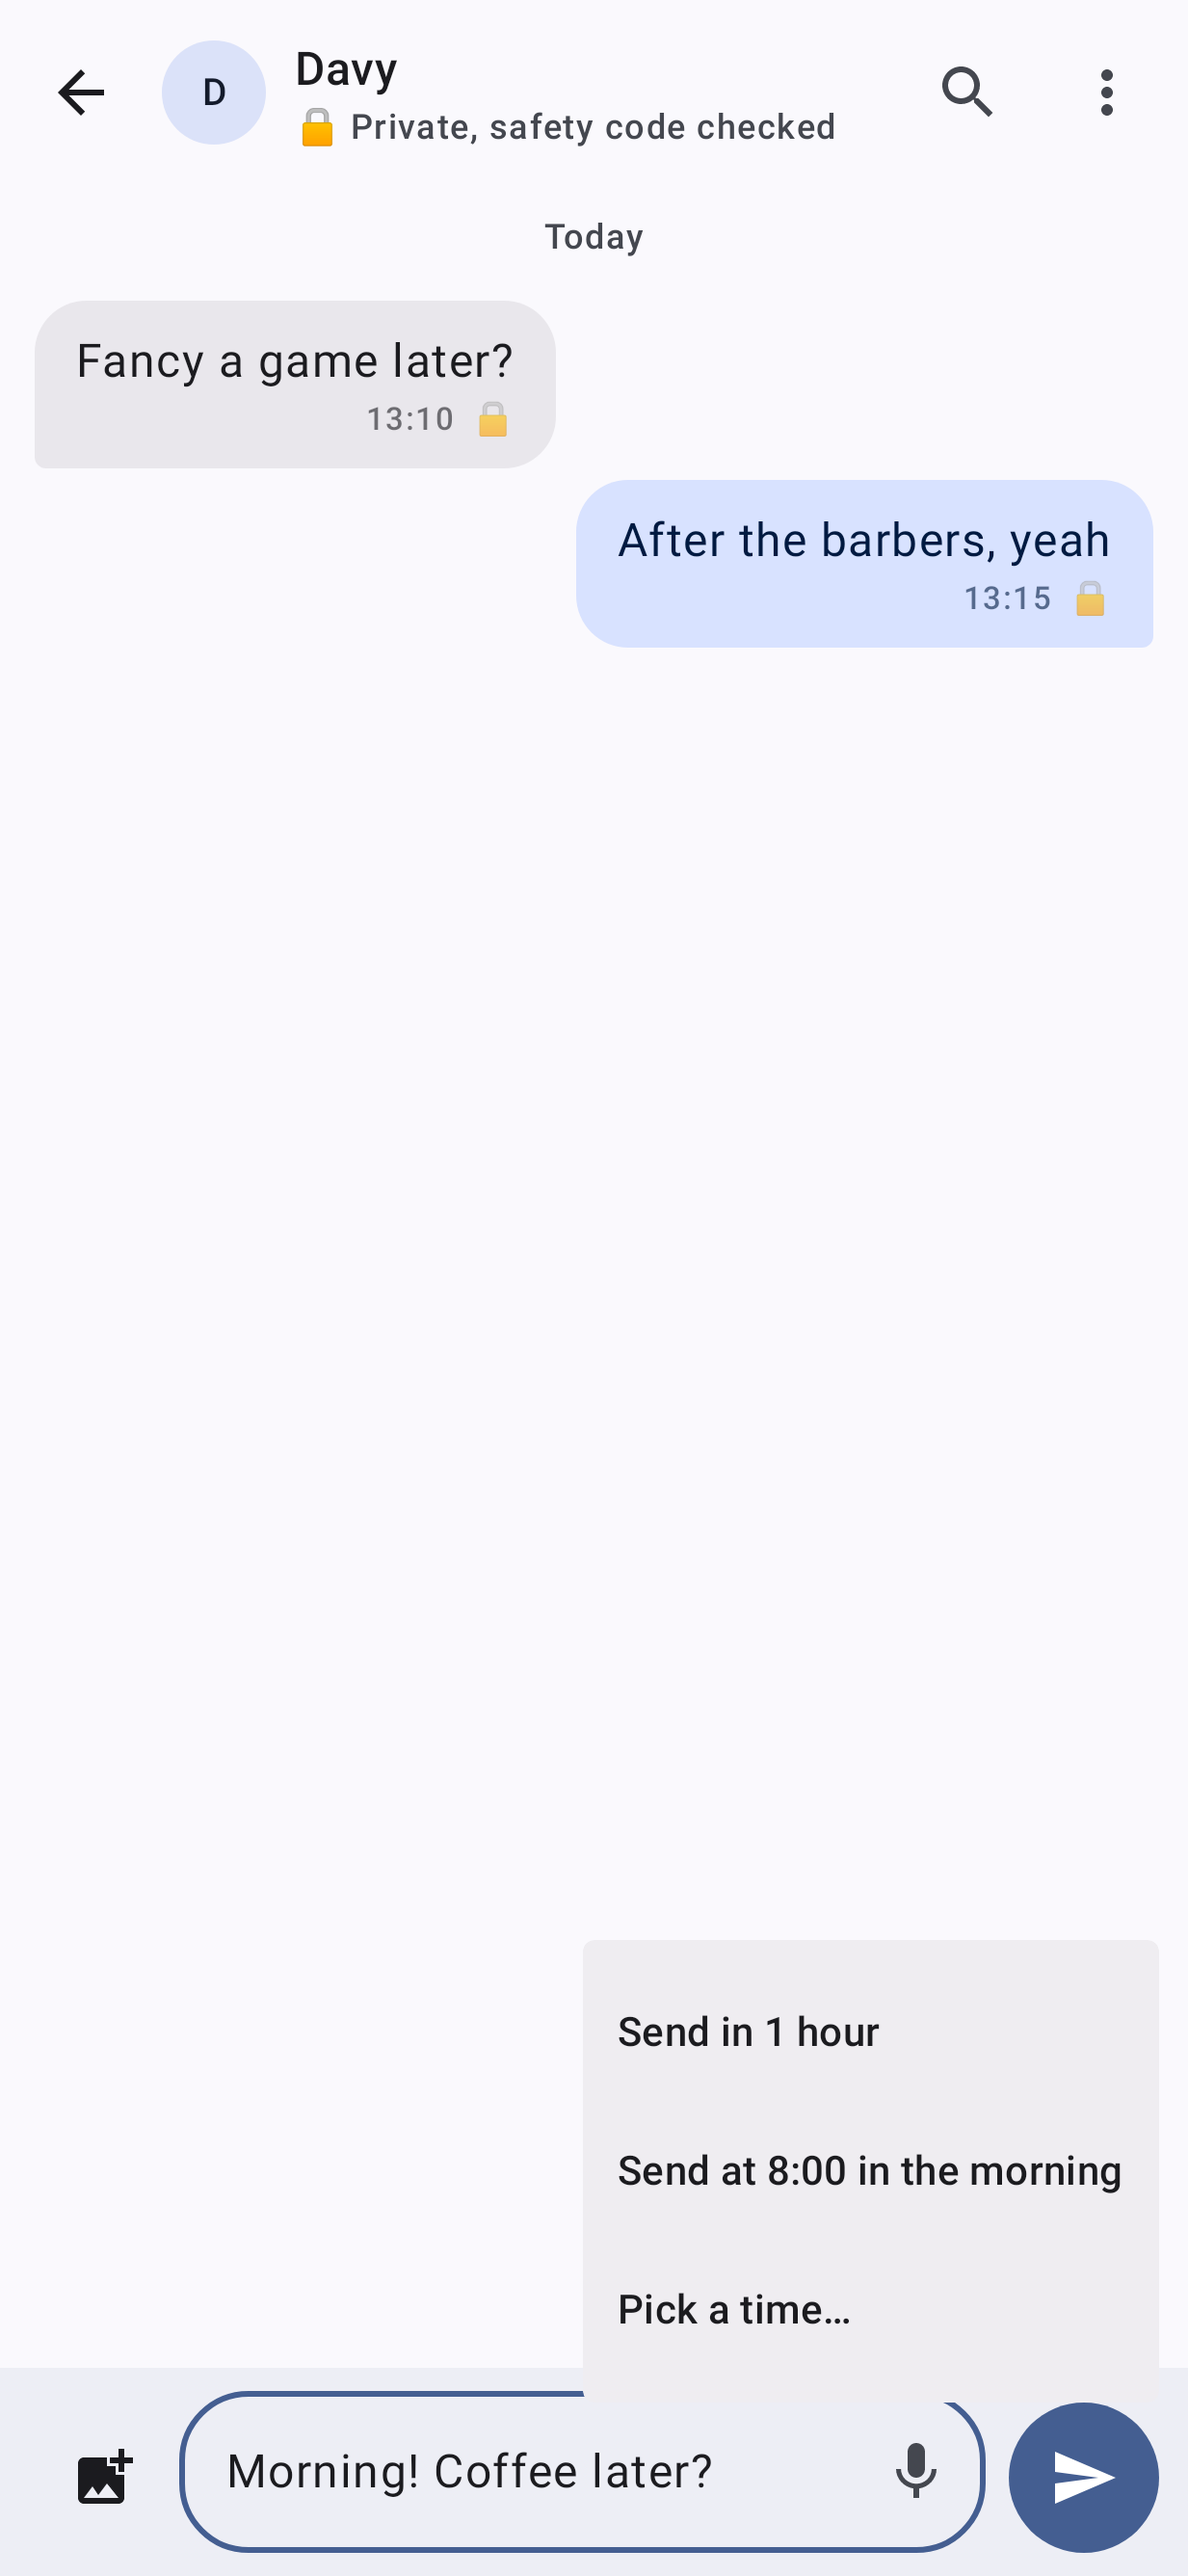
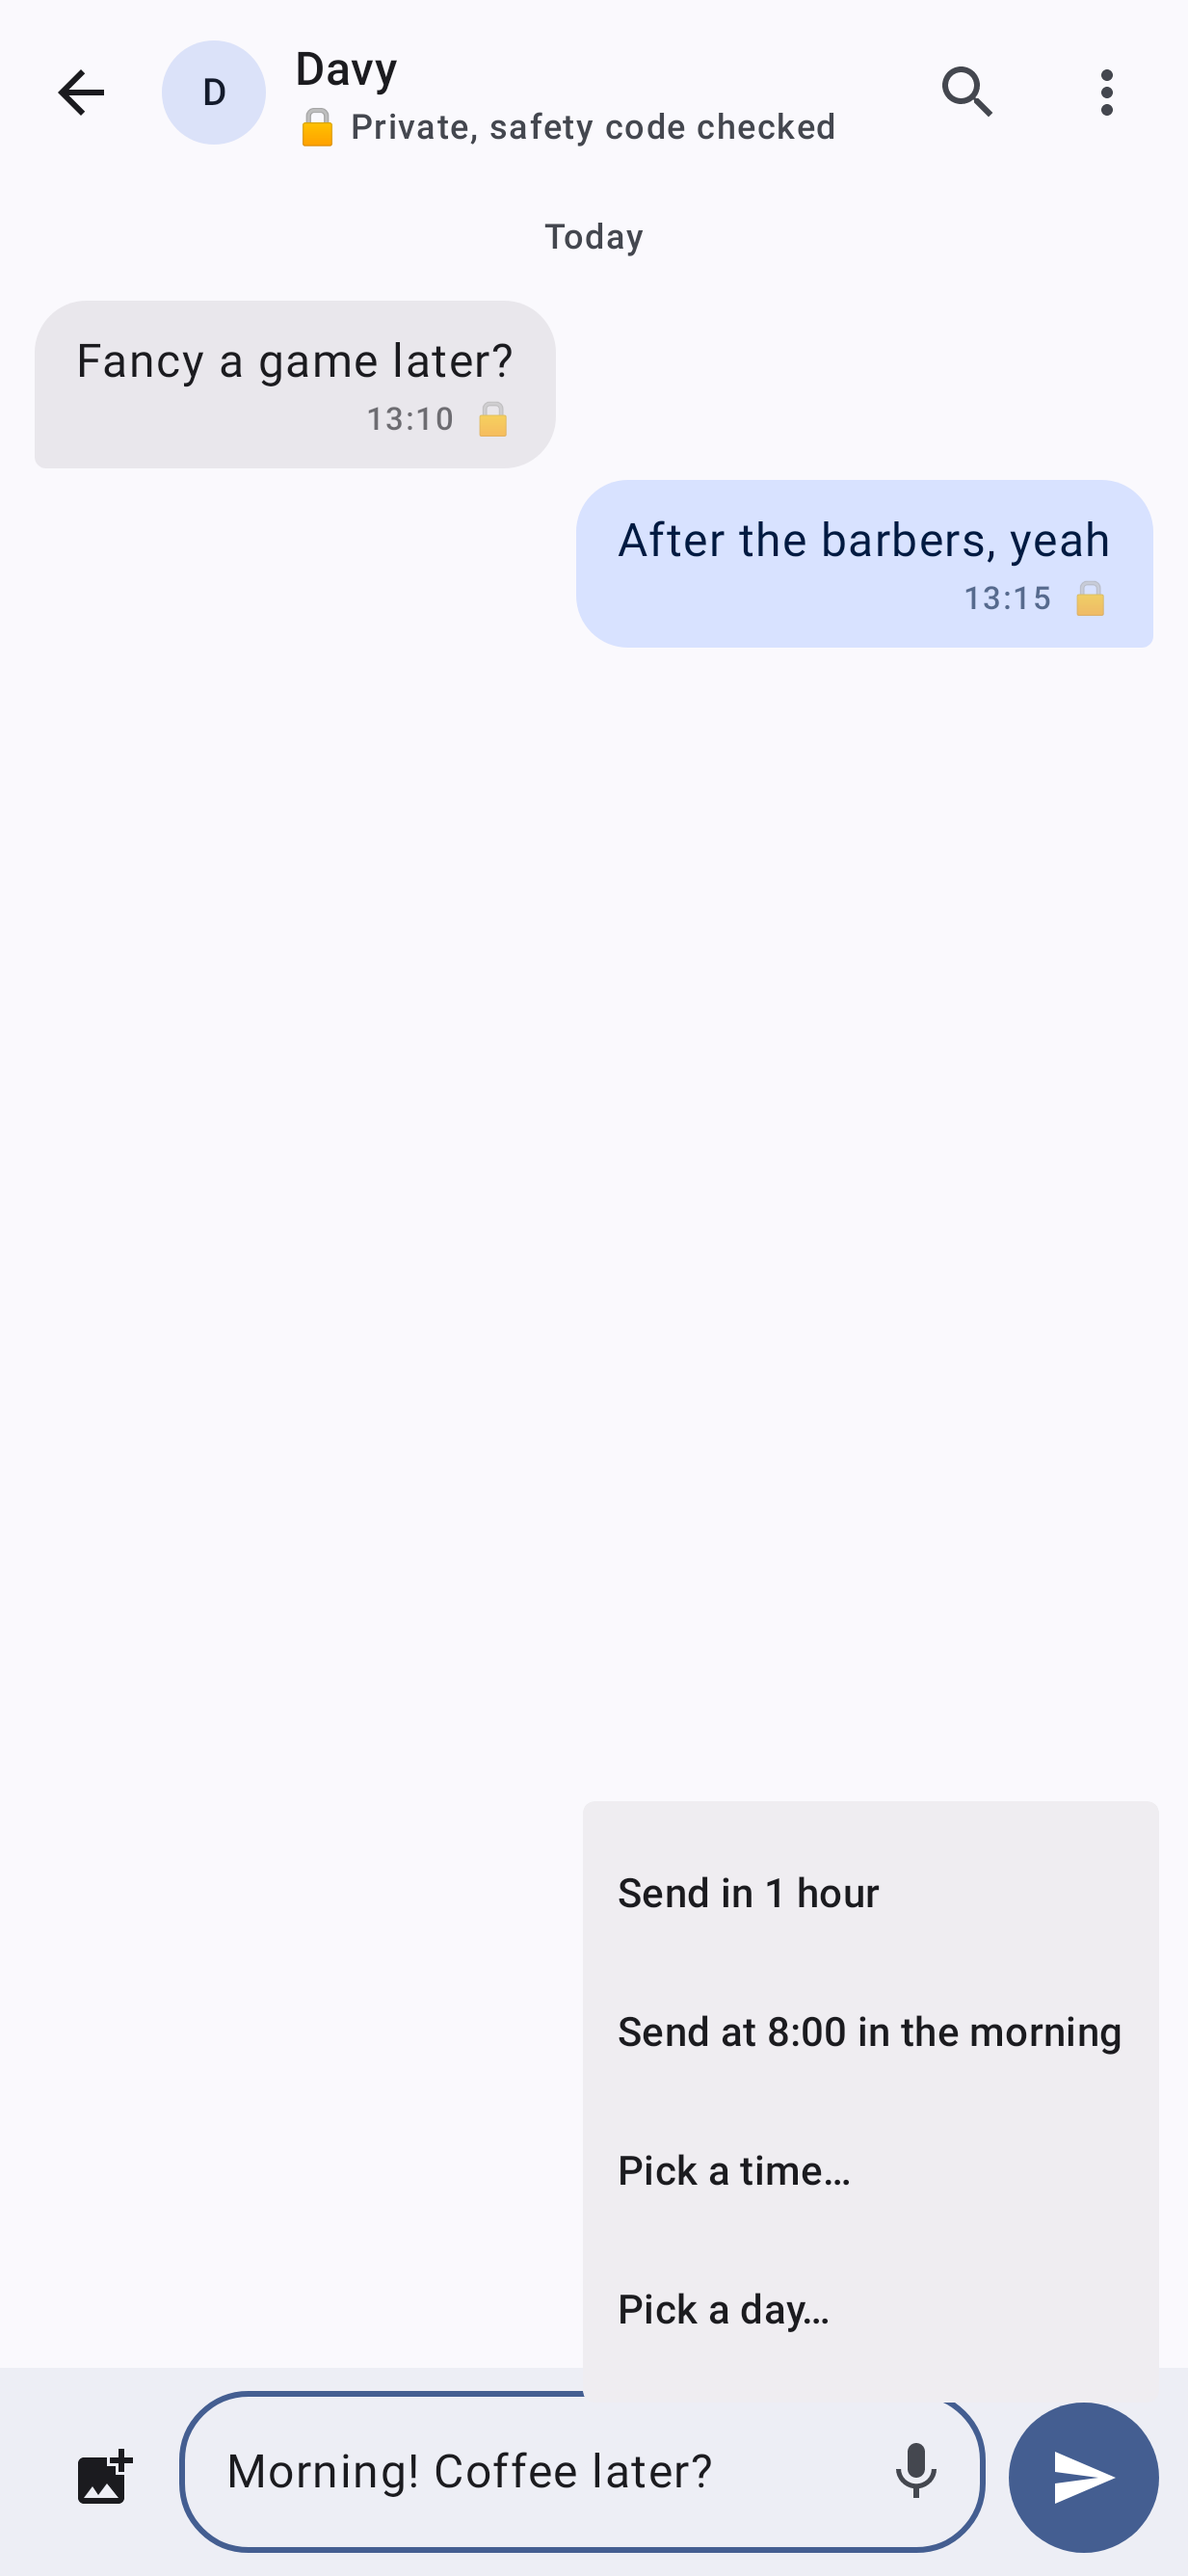
Send later: pick a day, and say the day when it isn't today (AII-170)

diff --git a/app/src/test/java/com/smizflark/aigile/messenger/screens/ChatShotTest.kt b/app/src/test/java/com/smizflark/aigile/messenger/screens/ChatShotTest.kt
@@ -221,6 +221,25 @@ class ChatShotTest : ShotBase() {
         rule.onNodeWithTag("send-now").performClick()
         rule.waitUntil(5_000) { repo.pendingFor(c.key).isEmpty() }
     }
+    /** AII-170: hold Send, Pick a day…: calendar, then clock; the bubble says the day. */
+    @Test fun sendLaterOnADay() {
+        val c = chats.first { it.kind == com.smizflark.aigile.messenger.data.Kind.FRIEND }; prime(c); RuntimeEnvironment.setQualifiers("+notnight")
+        rule.setContent { MessengerTheme { ChatScreen(repo, c, onBack = {}) } }
+        rule.onNodeWithTag("input").performTextInput("Friday, then?")
+        rule.onNodeWithTag("send").performTouchInput { longClick() }
+        rule.onNodeWithTag("send-day").performClick()
+        rule.waitForIdle()
+        val cal = org.robolectric.shadows.ShadowDialog.getLatestDialog() as android.app.DatePickerDialog
+        cal.updateDate(2026, 9, 16)
+        cal.getButton(android.content.DialogInterface.BUTTON_POSITIVE).performClick()
+        rule.waitForIdle()
+        val clock = org.robolectric.shadows.ShadowDialog.getLatestDialog() as android.app.TimePickerDialog
+        clock.getButton(android.content.DialogInterface.BUTTON_POSITIVE).performClick()
+        rule.waitForIdle()
+        org.junit.Assert.assertEquals("2026-10-16T08:00:00Z", repo.pendingFor(c.key).single().sendAt)
+        rule.onNodeWithText("Sends at Fri 09:00", substring = true).assertExists()
+        rule.onRoot().captureRoboImage("../docs/shots/send_later_day_light.png")
+    }
     @Test fun enterSendsSetting() {
         rule.setContent { MessengerTheme { SettingsScreen(repo, {}, {}) } }
         rule.onNodeWithTag("enterSends").performScrollTo()

diff --git a/app/src/test/java/com/smizflark/aigile/messenger/FullTimeTest.kt b/app/src/test/java/com/smizflark/aigile/messenger/FullTimeTest.kt
@@ -1,6 +1,7 @@
 package com.smizflark.aigile.messenger
 
 import com.smizflark.aigile.messenger.ui.fullTime
+import com.smizflark.aigile.messenger.ui.sendTime
 import org.junit.Assert.assertEquals
 import org.junit.Test
 import java.time.ZoneId
@@ -16,6 +17,18 @@ class FullTimeTest {
             Locale.setDefault(Locale.forLanguageTag("nl"))
             // Dutch month short forms may carry a dot ("okt."), depending on the phone's locale data.
             assertEquals("di 13 okt, 12:42", fullTime("2026-10-13T10:42:00Z", ZoneId.of("Europe/Amsterdam")).replace(".", ""))
+        } finally { Locale.setDefault(old) }
+    }
+
+    /** AII-170: Sends at: just the time today, the weekday this week, the date after that. */
+    @Test fun sendTimeSaysTheDayWhenNotToday() {
+        val old = Locale.getDefault()
+        try {
+            Locale.setDefault(Locale.UK)
+            val now = java.time.Instant.parse("2026-10-13T13:00:00Z"); val z = ZoneId.of("Europe/London")
+            assertEquals("15:00", sendTime("2026-10-13T14:00:00Z", now, z))
+            assertEquals("Fri 09:00", sendTime("2026-10-16T08:00:00Z", now, z))
+            assertEquals("21 Oct, 09:00", sendTime("2026-10-21T08:00:00Z", now, z))
         } finally { Locale.setDefault(old) }
     }
 

diff --git a/app/src/main/java/com/smizflark/aigile/messenger/ui/ChatComposer.kt b/app/src/main/java/com/smizflark/aigile/messenger/ui/ChatComposer.kt
@@ -229,6 +229,16 @@ private fun SendButton(canSend: Boolean, onSend: () -> Unit, onSendLater: ((Inst
                 android.app.TimePickerDialog(view.context, { _, h, m -> onSendLater(Instant.ofEpochMilli(Pause.nextAt(Now.millis(), h, m))) },
                     soon.hour, soon.minute, android.text.format.DateFormat.is24HourFormat(view.context)).show()
             })
+            // AII-170: a later day too: the phone's calendar, then its clock (09:00 to start).
+            DropdownMenuItem(text = { Text(stringResource(R.string.send_pick_day)) }, modifier = Modifier.testTag("send-day"), onClick = {
+                menu = false
+                val today = Now.today()
+                android.app.DatePickerDialog(view.context, { _, y, mo, d ->
+                    val day = java.time.LocalDate.of(y, mo + 1, d)
+                    android.app.TimePickerDialog(view.context, { _, h, m -> onSendLater(Instant.ofEpochMilli(Pause.onDay(Now.millis(), day, h, m))) },
+                        9, 0, android.text.format.DateFormat.is24HourFormat(view.context)).show()
+                }, today.year, today.monthValue - 1, today.dayOfMonth).apply { datePicker.minDate = Now.millis() - 1000 }.show()
+            })
         }
     }
 }

diff --git a/app/src/main/java/com/smizflark/aigile/messenger/ui/Parts.kt b/app/src/main/java/com/smizflark/aigile/messenger/ui/Parts.kt
@@ -109,6 +109,17 @@ fun shortTime(iso: String?, now: Instant = com.smizflark.aigile.messenger.data.N
 fun fullTime(iso: String?, zone: ZoneId = ZoneId.systemDefault()): String =
     instant(iso)?.let { DateTimeFormatter.ofPattern("EEE d MMM, HH:mm").format(it.atZone(zone)) } ?: ""
 
+/** AII-170: when a Send later message goes: "15:00" today, "Fri 09:00" this week, else "16 Oct, 09:00". */
+fun sendTime(iso: String?, now: java.time.Instant = com.smizflark.aigile.messenger.data.Now.instant(), zone: ZoneId = ZoneId.systemDefault()): String {
+    val t = instant(iso)?.atZone(zone) ?: return ""
+    val days = ChronoUnit.DAYS.between(now.atZone(zone).toLocalDate(), t.toLocalDate())
+    return when {
+        days <= 0 -> hm.format(t)
+        days < 7 -> DateTimeFormatter.ofPattern("EEE HH:mm").format(t)
+        else -> DateTimeFormatter.ofPattern("d MMM, HH:mm").format(t)
+    }
+}
+
 fun clock(iso: String?): String = instant(iso)?.let { hm.format(it.atZone(ZoneId.systemDefault())) } ?: ""
 
 /** Day separator in a chat: "Today", "Yesterday", "Mon 3 Oct". */

diff --git a/app/src/main/java/com/smizflark/aigile/messenger/data/Pause.kt b/app/src/main/java/com/smizflark/aigile/messenger/data/Pause.kt
@@ -17,6 +17,12 @@ object Pause {
     /** The next 08:00 in the given zone: this morning when pressed in the small hours, else tomorrow. */
     fun untilTomorrow(now: Long, zone: ZoneId = ZoneId.systemDefault()): Long = nextAt(now, 8, 0, zone)
 
+    /** Hour:minute on [day] (Send later, pick a day, AII-170); a time already gone means the next one. */
+    fun onDay(now: Long, day: java.time.LocalDate, hour: Int, minute: Int, zone: ZoneId = ZoneId.systemDefault()): Long {
+        val at = day.atTime(LocalTime.of(hour, minute)).atZone(zone).toInstant().toEpochMilli()
+        return if (at > now) at else nextAt(now, hour, minute, zone)
+    }
+
     /** The next time the clock shows hour:minute: later today, else tomorrow (Send later, pick a time, AII-147). */
     fun nextAt(now: Long, hour: Int, minute: Int, zone: ZoneId = ZoneId.systemDefault()): Long {
         val today = Instant.ofEpochMilli(now).atZone(zone).toLocalDate().atTime(LocalTime.of(hour, minute)).atZone(zone).toInstant().toEpochMilli()

diff --git a/app/src/test/java/com/smizflark/aigile/messenger/screens/ChatsListShotTest.kt b/app/src/test/java/com/smizflark/aigile/messenger/screens/ChatsListShotTest.kt
@@ -79,11 +79,11 @@ class ChatsListShotTest : ShotBase() {
         shot("chats_draft", false) { ChatsScreen(repo, {}, {}, {}) }
         repo.store.saveDraft(lead().key, "")
     }
-    /** AII-148: a chat with a Send later message says when it goes. */
+    /** AII-148: a chat with a Send later message says when it goes (AII-170: and the day, when not today). */
     @Test fun sendsAtLight() {
         repo.queue(lead(), "Morning team", null, sendAt = java.time.Instant.parse("2026-10-14T07:00:00Z"))
         shot("chats_sends_at", false) { ChatsScreen(repo, {}, {}, {}) }
-        rule.onNodeWithText("⏰ Sends at 08:00").assertIsDisplayed()
+        rule.onNodeWithText("⏰ Sends at Wed 08:00").assertIsDisplayed()
     }
     /** AII-152: with a Send later message waiting, the Scheduled chip keeps just that chat. */
     @Test fun scheduledChip() {

diff --git a/app/src/test/java/com/smizflark/aigile/messenger/PauseTest.kt b/app/src/test/java/com/smizflark/aigile/messenger/PauseTest.kt
@@ -39,6 +39,13 @@ class PauseTest {
         assertEquals(at("2026-03-11T15:30:00+01:00[Europe/Amsterdam]"), Pause.nextAt(now, 15, 30, zone))
     }
 
+    /** AII-170: a picked day and time; a time already gone falls back to the next one. */
+    @Test fun pickedDayAndTime() {
+        val now = at("2026-03-10T15:30:00+01:00[Europe/Amsterdam]")
+        assertEquals(at("2026-03-13T09:00:00+01:00[Europe/Amsterdam]"), Pause.onDay(now, java.time.LocalDate.of(2026, 3, 13), 9, 0, zone))
+        assertEquals(at("2026-03-11T09:00:00+01:00[Europe/Amsterdam]"), Pause.onDay(now, java.time.LocalDate.of(2026, 3, 10), 9, 0, zone))
+    }
+
     @Test fun tomorrowAcrossSummerTime() {
         assertEquals(at("2026-03-29T08:00:00+02:00[Europe/Amsterdam]"), Pause.untilTomorrow(at("2026-03-28T23:00:00+01:00[Europe/Amsterdam]"), zone))
     }

diff --git a/app/src/main/java/com/smizflark/aigile/messenger/ui/ChatRow.kt b/app/src/main/java/com/smizflark/aigile/messenger/ui/ChatRow.kt
@@ -159,7 +159,7 @@ fun unsentLabel(unsent: List<Pending>, now: java.time.Instant = Now.instant()): 
     val failed = unsent.count { it.failed && !it.offline }   // offline ones still go by themselves (AII-55)
     // AII-148: only Send later ones left: say when the first goes.
     val held = unsent.filter { com.smizflark.aigile.messenger.work.later(it, now) }
-    if (failed == 0 && held.size == unsent.size) return Words.sendsAt.format(clock(held.minBy { java.time.Instant.parse(it.sendAt) }.sendAt))
+    if (failed == 0 && held.size == unsent.size) return Words.sendsAt.format(sendTime(held.minBy { java.time.Instant.parse(it.sendAt) }.sendAt))
     return if (failed > 0) Words.unsentFailed.format(failed) else Words.unsentWaiting.format(unsent.size - held.size)
 }
 

diff --git a/app/src/main/java/com/smizflark/aigile/messenger/ui/ChatBubble.kt b/app/src/main/java/com/smizflark/aigile/messenger/ui/ChatBubble.kt
@@ -268,7 +268,7 @@ internal fun MessageBubble(r: Row.Msg, ref: ChatRef, repo: Repo, mark: Int, onRe
                     when (b.state) {
                         SendState.SENDING -> stringResource(R.string.sending)
                         SendState.FAILED -> stringResource(R.string.not_sent)
-                        SendState.LATER -> stringResource(R.string.sends_at, clock(b.at))
+                        SendState.LATER -> stringResource(R.string.sends_at, sendTime(b.at))
                         SendState.SENT -> (if (starred) "★ " else "") + clock(b.at) +if (ref.kind == Kind.FRIEND && !b.unverified) "  🔒" else ""
                     },
                     style = MaterialTheme.typography.labelSmall,
